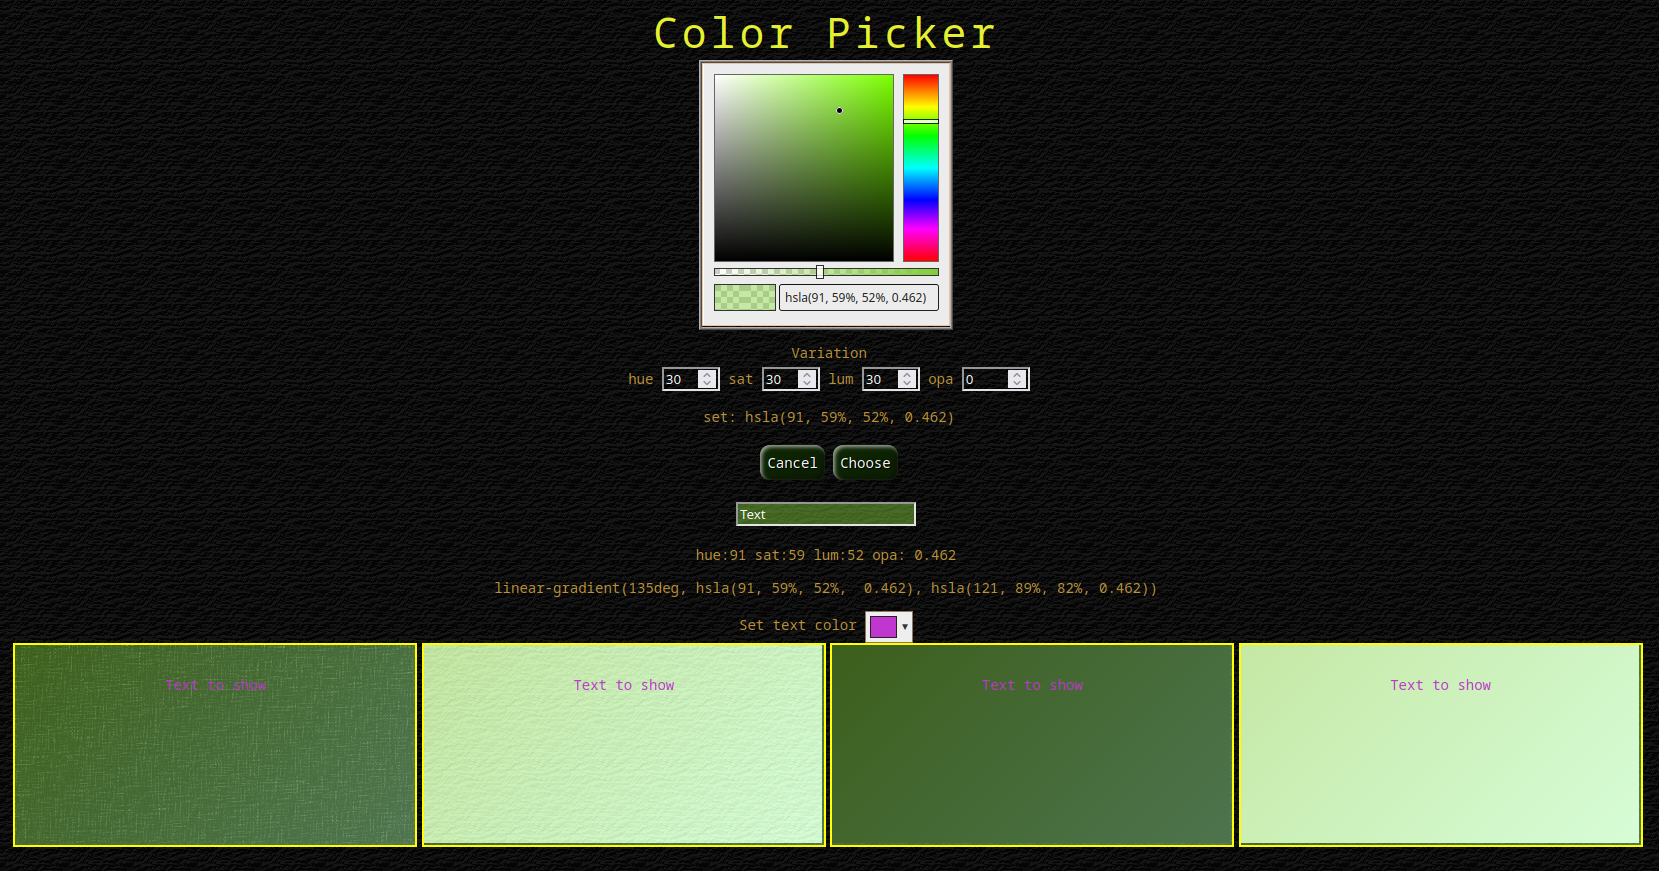
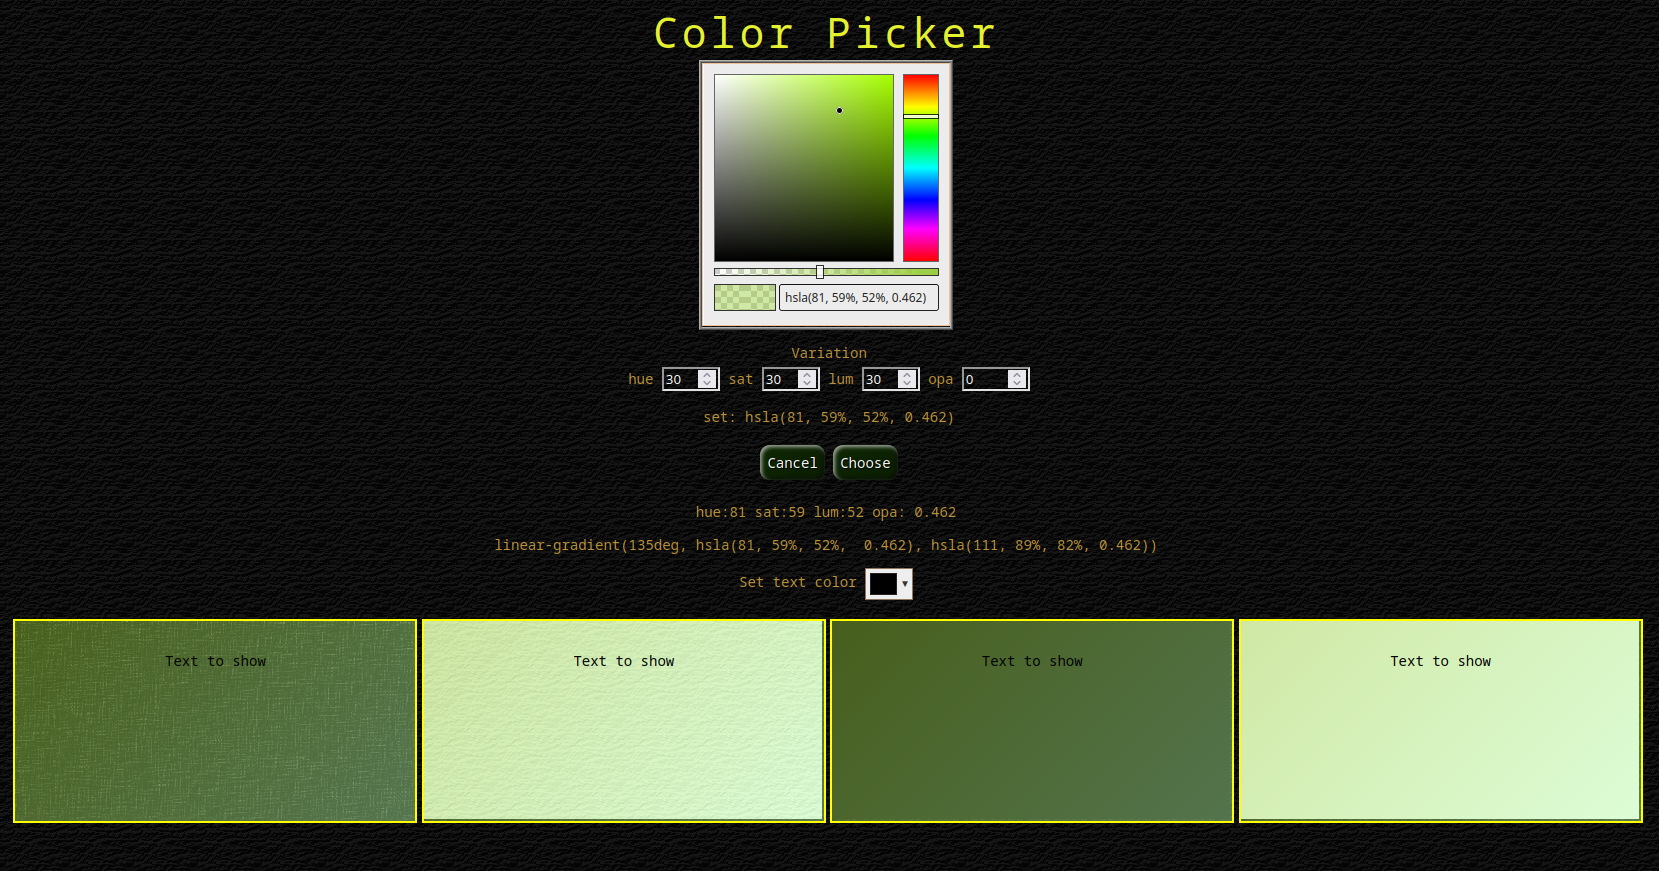
vers.1.1

Changed region(s): [[0.0, 0.558, 1.0, 0.806], [0.0, 0.93, 1.0, 0.992], [0.4919, 0.062, 0.5841, 0.186]]

diff --git a/style.css b/style.css
@@ -1,1 +1,1 @@
-body{background-color:#000;background-image:url(dark.png);color:#bd933a;font-family:monospace;font-size:large}#header a{position:relative;color:#e5f12f;text-decoration:none;font-family:"monospace";font-size:2.3em;font-weight:normal;letter-spacing:4px;padding:0px}#header a:visited{color:#e5f12f}a{color:#e5f12f;text-decoration:none;font-family:"monospace";font-size:1em;font-weight:normal}a:visited{color:#e5f12f}.center{display:block;margin:0px auto;text-align:center}#content{position:relative}#box{background-color:#000;padding:10px;border:ridge 2px gray;text-align:left;margin-top:20px;margin-bottom:0px;line-height:1.5em;text-align:center}.newcolor{width:400px;height:200px;line-height:1rem;border:2px solid #ff0}.esdivtb{display:inline-block;background-image:url(black.jpg);width:400px;height:200px}.esdivtw{display:inline-block;background-image:url(white.gif);width:400px;height:200px}.esdivb{display:inline-block;background-color:#000;width:400px;height:200px}.esdivw{display:inline-block;background-color:#fff;width:400px;height:200px}.estext{color:#fff}
+body{background-color:#000;background-image:url(dark.png);color:#bd933a;font-family:monospace;font-size:large}#header a{position:relative;color:#e5f12f;text-decoration:none;font-family:"monospace";font-size:2.3em;font-weight:normal;letter-spacing:4px;padding:0px}#header a:visited{color:#e5f12f}a{color:#e5f12f;text-decoration:none;font-family:"monospace";font-size:1em;font-weight:normal}a:visited{color:#e5f12f}.center{display:block;margin:0px auto;text-align:center}#content{position:relative}#box{background-color:#000;padding:10px;border:ridge 2px gray;text-align:left;margin-top:20px;margin-bottom:0px;line-height:1.5em;text-align:center}.newcolor{width:400px;height:200px;line-height:1rem;border:2px solid #ff0}.esdivtb{display:inline-block;background-image:url(black.jpg);width:400px;height:200px}.esdivtw{display:inline-block;background-image:url(white.gif);width:400px;height:200px}.esdivb{display:inline-block;background-color:#000;width:400px;height:200px}.esdivw{display:inline-block;background-color:#fff;width:400px;height:200px}

diff --git a/style.scss b/style.scss
@@ -90,6 +90,3 @@ $w:400px;$h:200px;
     height: $h;
  }
  
-.estext{
-   color: #fff;
-}

diff --git a/colorpicker.php b/colorpicker.php
@@ -80,18 +80,12 @@
          <?php require "colpick.php"; ?>
      </div>
 
-     <?php
-        ?>
-        <br>
-     <div id="" class="center">
-         <input id="txt" style="<?php echo $style; ?>" class="estext" type="text" value="Text" />
-     </div>
+
      <br>
      <div id="" class="center">
         <?php 
         if (is_array($basecol)) {
             echo "hue:".$basecol[0]." sat:".$basecol[1]." lum:".$basecol[2]." opa:".$basecol[3]."<br>"; 
-            //echo "".print_r($basecol)."<br>";
             //echo "<pre>".print_r($basecol)."</pre>";
         }
         ?>
@@ -103,7 +97,7 @@
         <label for="settextcolor">Set text color</label>
         <input id="settextcolor" class="basic" type="text" value="#fff" />
     </div>
-         
+    <br>         
         <div class="center esdivtb">
             <div id="newcolor" class="newcolor center <?php echo $newclass; ?>"><?php echo $textshow; ?></div>
         </div>

diff --git a/colpick.php b/colpick.php
@@ -112,7 +112,6 @@
       //color: 'white',
       preferredFormat: 'hex',
       change: function(color) {
-        //$('.estext').css('background-color', color)
         $(".newcolor").css({ "color": color });
       }
     });
